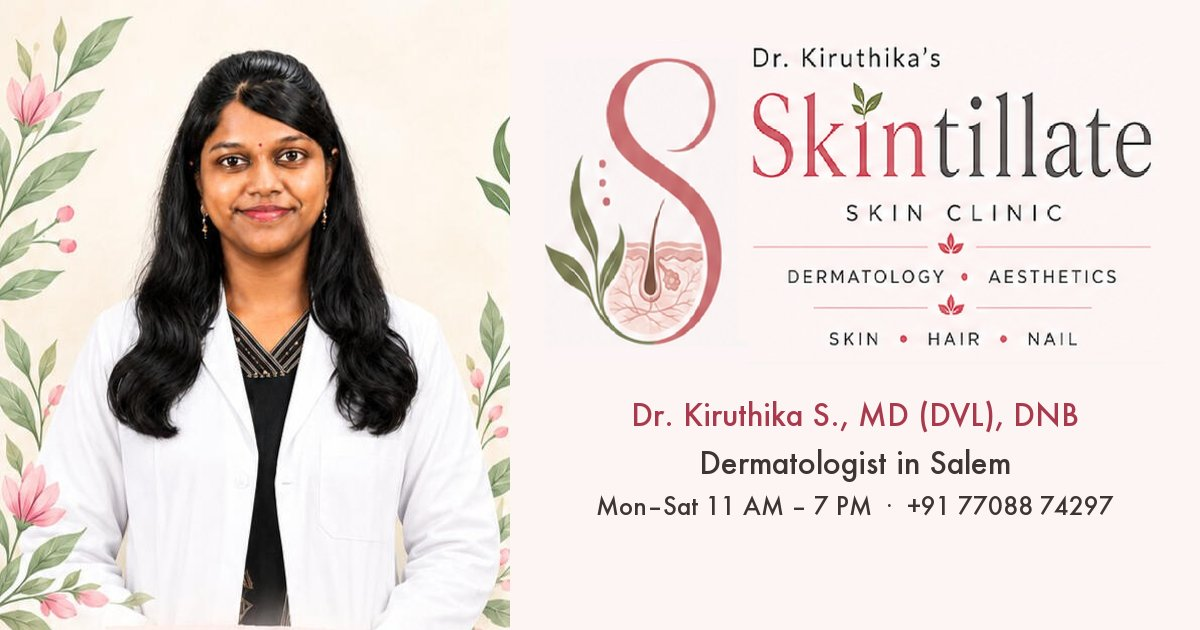
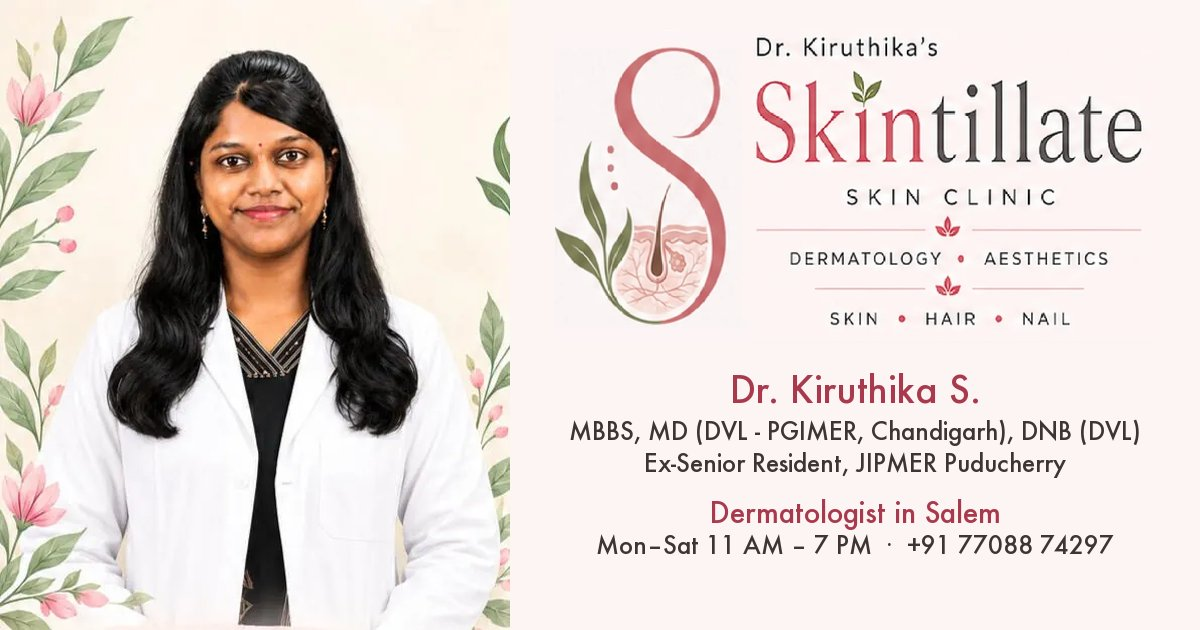
Incorporate doctor feedbacks * Update credentials across * Remove Nd Yag laser * Reworded "Lasers at our clinic"

diff --git a/dr-kiruthika.html b/dr-kiruthika.html
@@ -2,7 +2,7 @@
 ref: doctor
 permalink: /dr-kiruthika/
 title: Dr. Kiruthika S. – Dermatologist in Salem | Skintillate
-description: Dr. Kiruthika S., MBBS, MD (DVL) PGIMER Chandigarh, DNB, is a consultant dermatologist in Salem with 10+ years of experience in skin, hair, nail and aesthetic care.
+description: Dr. Kiruthika S., MBBS, MD (DVL - PGIMER, Chandigarh), DNB (DVL), Ex-Senior Resident, JIPMER Puducherry. Dermatologist in Salem for skin, hair and nails.
 heading: Dr. Kiruthika S., Consultant Dermatologist in Salem
 nav_title: Dr. Kiruthika
 schema_type: ProfilePage
@@ -33,7 +33,7 @@ about_doctor: true
         <li><strong>MBBS</strong><span>Madras Medical College, Chennai</span></li>
         <li><strong>MD – Dermatology, Venereology &amp; Leprology</strong><span>Postgraduate Institute of Medical Education and Research (PGIMER), Chandigarh</span></li>
         <li><strong>DNB – Dermatology, Venereology &amp; Leprology</strong><span>National Board of Examinations, New Delhi</span></li>
-        <li><strong>Senior Resident</strong><span>JIPMER, Puducherry and PGIMER, Chandigarh</span></li>
+        <li><strong>Ex-Senior Resident</strong><span>JIPMER, Puducherry and PGIMER, Chandigarh</span></li>
         <li><strong>Registration</strong><span>Tamil Nadu Medical Council, Reg. No. {{ clinic.doctor.registration_number }}</span></li>
       </ul>
     </div>

diff --git a/_includes/schema.html b/_includes/schema.html
@@ -65,12 +65,15 @@
       "name": {{ clinic.doctor.name | jsonify }},
       "honorificPrefix": "Dr.",
       "jobTitle": "Consultant Dermatologist",
+      "honorificSuffix": {{ clinic.doctor.qualifications | jsonify }},
+      "description": {{ clinic.doctor.name | append: ", " | append: clinic.doctor.qualifications | jsonify }},
       "url": {{ doctor_url | jsonify }},
       "image": {{ "/assets/img/dr-kiruthika-dermatologist-salem-506.webp" | absolute_url | jsonify }},
       "worksFor": { "@id": {{ clinic_id | jsonify }} },
       "alumniOf": [
         { "@type": "CollegeOrUniversity", "name": "Madras Medical College, Chennai" },
-        { "@type": "CollegeOrUniversity", "name": "Postgraduate Institute of Medical Education and Research (PGIMER), Chandigarh" }
+        { "@type": "CollegeOrUniversity", "name": "Postgraduate Institute of Medical Education and Research (PGIMER), Chandigarh" },
+        { "@type": "CollegeOrUniversity", "name": "Jawaharlal Institute of Postgraduate Medical Education and Research (JIPMER), Puducherry" }
       ],
       "hasCredential": [
         { "@type": "EducationalOccupationalCredential", "credentialCategory": "degree", "name": "MBBS" },

diff --git a/index.html b/index.html
@@ -15,7 +15,7 @@ nav_title: Home
       <ul class="hero-facts">
         <li>{% include icon.html name="clock" %}<span>Mon–Sat, 11 AM – 7 PM</span></li>
         <li>{% include icon.html name="pin" %}<span>North Alagapuram, Salem</span></li>
-        <li>{% include icon.html name="check" %}<span>MD (PGIMER), DNB dermatologist</span></li>
+        <li>{% include icon.html name="check" %}<span>{{ clinic.doctor.qualifications }}</span></li>
       </ul>
     </div>
     <div class="hero-media">
@@ -66,6 +66,7 @@ nav_title: Home
     <div>
       <p class="eyebrow">{% include icon.html name="leaf" %}<span>Meet the doctor</span></p>
       <h2 id="doctor-title">{{ clinic.doctor.name }}, Consultant Dermatologist</h2>
+      <p class="doctor-creds">{{ clinic.doctor.qualifications }} · {{ clinic.doctor.registration }}</p>
       <p>Dr. Kiruthika is a dermatologist with over 10 years of experience, bringing together academic training, clinical expertise, research and a passion for aesthetic medicine.</p>
       <ul class="check-list">
         <li>{% include icon.html name="check" %}<span>MBBS, Madras Medical College, Chennai</span></li>

diff --git a/assets/css/main.css b/assets/css/main.css
@@ -223,6 +223,7 @@ h3 { font-size: 1.45rem; }
 .check-list li { display: flex; gap: .7em; align-items: flex-start; padding: .35em 0; }
 .check-list .icon { color: var(--sage); margin-top: .3em; }
 
+.doctor-creds { font-weight: 500; color: var(--rose); }
 .credentials { display: grid; gap: 12px; list-style: none; padding: 0; margin: 1.5rem 0; }
 .credentials li { background: var(--surface); border: 1px solid var(--line); border-radius: var(--radius-sm); padding: 14px 18px; }
 .credentials strong { display: block; color: var(--ink); }

diff --git a/services/pigmentation-treatment.md b/services/pigmentation-treatment.md
@@ -1,20 +1,18 @@
 ---
 ref: pigmentation
 title: Pigmentation & Melasma Treatment in Salem | Skintillate
-description: Dermatologist treatment for melasma, dark spots, tanning, dark circles and uneven skin tone in Salem with prescription creams, chemical peels and Q-switched laser.
+description: Dermatologist treatment for melasma, dark spots, tanning, dark circles and uneven skin tone in Salem with prescription creams, chemical peels and sun protection.
 heading: Pigmentation & Melasma Treatment in Salem
 nav_title: Pigmentation & Melasma
 intro: Dark patches and uneven skin tone are among the most common reasons people visit a dermatologist. The right treatment depends on what is causing the pigmentation, so an accurate diagnosis comes first.
 conditions: [Melasma, Hyperpigmentation, Post-inflammatory hyperpigmentation, Solar lentigines, Periorbital hyperpigmentation, Acanthosis nigricans]
-related: chemical-peels,laser,acne
+related: chemical-peels,acne,clinical-dermatology
 last_reviewed:  # set to the date (YYYY-MM-DD) once Dr. Kiruthika approves this page
 faq:
   - q: Can melasma be cured permanently?
     a: Melasma can be lightened significantly, but it is a long-term condition that can return with sun exposure, heat or hormonal changes. Daily sun protection and a maintenance routine help keep it under control after treatment.
-  - q: Is laser safe for Indian skin?
-    a: Yes, when the right laser and settings are chosen by an experienced dermatologist. Indian skin is more prone to darkening after aggressive treatment, so we use gentle settings, test where needed and combine laser with sun protection and creams.
   - q: How many sessions will I need?
-    a: It depends on the type and depth of pigmentation. Peels and laser sessions are usually spaced 2 to 4 weeks apart, and most people need a course of several sessions. Dr. Kiruthika will give you an estimate after examining your skin.
+    a: It depends on the type and depth of pigmentation. Peel sessions are usually spaced 2 to 4 weeks apart, and most people need a course of several sessions. Dr. Kiruthika will give you an estimate after examining your skin.
   - q: Can I use fairness creams?
     a: Avoid unprescribed fairness or "skin-whitening" creams. Many contain strong steroids or mercury that can damage the skin and worsen pigmentation over time. Use only the creams your dermatologist prescribes.
   - q: Which sunscreen should I use?
@@ -29,7 +27,6 @@ faq:
 - **Dark circles** under the eyes.
 - **Dark, velvety skin on the neck, underarms or knuckles** (acanthosis nigricans), which can be linked to insulin resistance, weight or PCOS.
 - **Pigmentation around the mouth and lips.**
-- **Pigmented birthmarks** such as nevus of Ota.
 - **Pigmentation from cosmetics, hair dye or medicines.**
 
 White patches are a different problem; see [clinical dermatology](/services/clinical-dermatology/) for vitiligo and other causes.
@@ -50,9 +47,6 @@ For selected people with melasma, tablets such as tranexamic acid may be added a
 ### Chemical peels
 Glycolic, lactic, mandelic, salicylic and combination peels lift away pigmented surface cells. [Read more about chemical peels](/services/chemical-peels/).
 
-### Q-switched Nd:YAG laser
-Laser toning breaks up excess pigment into tiny particles that the body clears away. It is used for melasma, freckles, sun spots and birthmarks such as nevus of Ota. [Read more about our lasers](/services/laser-treatment/).
-
 ### HydraFacial and medi-facials
 Gentle cleansing and hydrating treatments that brighten the skin and support the main treatment plan.
 
@@ -62,4 +56,4 @@ Melasma is a long-term condition. Treatment can lighten it considerably, but sun
 
 ## Why choose Skintillate
 
-Pigmentation treatment in Indian skin needs care, because over-treatment can make it darker. Your plan is made by [Dr. Kiruthika](/dr-kiruthika/), a dermatologist trained at PGIMER, Chandigarh, who adjusts every cream, peel and laser setting to your skin.
+Pigmentation treatment in Indian skin needs care, because over-treatment can make it darker. Your plan is made by [Dr. Kiruthika](/dr-kiruthika/), a dermatologist trained at PGIMER, Chandigarh, who adjusts every cream and peel to your skin.

diff --git a/services/laser-treatment.md b/services/laser-treatment.md
@@ -1,12 +1,12 @@
 ---
 ref: laser
 title: Laser Skin Treatment in Salem | Skintillate Skin Clinic
-description: Dermatologist-performed laser treatments in Salem with Q-switched Nd:YAG for pigmentation and tattoos, fractional CO₂ for scars, and diode laser hair removal.
+description: Dermatologist-performed laser treatments in Salem, with fractional CO₂ laser for acne scars and skin texture and diode laser for hair removal.
 heading: Laser Skin Treatments in Salem
 nav_title: Laser Treatments
-intro: Lasers treat pigmentation, scars, unwanted hair and tattoos with precision. Results depend as much on choosing the right laser and settings for your skin as on the machine itself, which is why every laser treatment here is planned by a dermatologist.
-conditions: [Hyperpigmentation, Melasma, Acne scars, Hirsutism, Tattoo, Nevus of Ota]
-related: laser-hair-removal,pigmentation,acne
+intro: Lasers treat scars, uneven skin texture and unwanted hair with precision. Results depend as much on choosing the right laser and settings for your skin as on the machine itself, which is why every laser treatment here is planned by a dermatologist.
+conditions: [Acne scars, Atrophic scars, Hirsutism, Hypertrichosis]
+related: laser-hair-removal,acne,anti-ageing
 last_reviewed:  # set to the date (YYYY-MM-DD) once Dr. Kiruthika approves this page
 faq:
   - q: Is laser treatment painful?
@@ -14,23 +14,17 @@ faq:
   - q: Is laser safe for dark or Indian skin?
     a: Yes, with the right choice of laser and carefully adjusted settings. Darker skin is more prone to temporary darkening or lightening after laser, so we start gently, test where needed and insist on sun protection before and after treatment.
   - q: How many sessions will I need?
-    a: Most laser treatments need a course of sessions. As a guide, pigmentation needs several sessions 2 to 4 weeks apart, scars 3 to 5 sessions 4 to 6 weeks apart, and hair removal 6 to 8 sessions. Your plan is tailored after your consultation.
-  - q: Can a tattoo be removed completely?
-    a: Black and dark blue ink usually respond well over several sessions. Some colours, such as green, yellow and light blue, are harder to remove and may only fade. Dr. Kiruthika will examine your tattoo and explain what is realistic.
+    a: Most laser treatments need a course of sessions. As a guide, scars usually need 3 to 5 sessions 4 to 6 weeks apart, and hair removal 6 to 8 sessions. Your plan is tailored after your consultation.
   - q: Is there any downtime?
-    a: Q-switched laser and laser hair removal usually involve only mild redness for a few hours. Fractional CO₂ laser causes redness, swelling and fine crusting for about 3 to 7 days.
+    a: Laser hair removal usually involves only mild redness for a few hours. Fractional CO₂ laser causes redness, swelling and fine crusting for about 3 to 7 days.
 ---
 
-## Lasers at our clinic
+## Laser treatments
 
 | Laser | What it treats | Typical course |
 |---|---|---|
-| Q-switched Nd:YAG | Melasma and pigmentation (laser toning), freckles, sun spots, nevus of Ota, tattoo removal, carbon laser peel | Several sessions, 2 to 4 weeks apart |
 | Fractional CO₂ | Acne scars, chickenpox and surgical scars, open pores, fine lines, uneven texture, stretch marks | 3 to 5 sessions, 4 to 6 weeks apart |
 | Diode | [Laser hair removal](/services/laser-hair-removal/) for the face and body | 6 to 8 sessions, 4 to 6 weeks apart |
-
-### Q-switched Nd:YAG laser
-This laser releases energy in extremely short pulses that break excess pigment or tattoo ink into tiny particles, which the body then clears. Its longer wavelength is well suited to Indian skin. It is also used for the **carbon laser peel**, a quick treatment for oily skin, open pores and dullness. See also [pigmentation treatment](/services/pigmentation-treatment/).
 
 ### Fractional CO₂ laser
 The laser creates microscopic columns of treatment in the skin, leaving the surrounding skin intact to speed healing. This stimulates new collagen, gradually smoothing scars and improving texture. See also [acne scar treatment](/services/acne-scar-treatment/).

diff --git a/CONTENT-REVIEW.md b/CONTENT-REVIEW.md
@@ -17,12 +17,12 @@ Once a page is approved, set `last_reviewed:` in its front matter to the approva
 |---|---|
 | Clinical Dermatology | The page mentions **confidential care for sexually transmitted infections** (part of DVL practice). Keep it or remove it? Also confirm patch testing and skin biopsy are done or arranged by the clinic. |
 | Acne & Acne Scars | Confirm the focal TCA (CROSS) technique, subcision, microneedling and comedone extraction are offered. |
-| Pigmentation & Melasma | Confirm oral tranexamic acid, HydraFacial and medi-facials. Confirm the Q-switched laser is used for nevus of Ota. |
+| Pigmentation & Melasma | Confirm oral tranexamic acid, HydraFacial and medi-facials. |
 | Hair Loss (PRP & GFC) | Check the PRP and GFC session schedule (3–4 sessions a month apart). Hair transplant is described as **consultation only**. Is that correct? |
 | Nail Disorders | Confirm ingrown toenail procedures are done at the clinic. Confirm nail fungal tests are sent out or done in the clinic. |
 | Wart, Skin Tag & Mole Removal | The page says removal can often be done on the same day as the consultation. Is that correct? |
 | Intralesional Injections | 5-fluorouracil for keloids is mentioned. Keep it? |
-| Laser Treatments | Confirm the **carbon laser peel**, tattoo removal and stretch-mark treatment with fractional CO₂. |
+| Laser Treatments | Confirm stretch-mark and fine-line treatment with fractional CO₂. |
 | Laser Hair Removal | Check the session counts (6–8, 4–6 weeks apart) and the pre-session instructions. |
 | Chemical Peels | Confirm the peels listed (salicylic, glycolic, lactic, mandelic, Jessner's, TCA) and that HydraFacial is offered. |
 | Anti-Ageing, Botox & Fillers | Confirm skin boosters, hyperhidrosis treatment, and filler areas (under-eye, cheeks, lips, chin, jawline). |

diff --git a/services/anti-ageing-botox-fillers.md b/services/anti-ageing-botox-fillers.md
@@ -51,7 +51,6 @@ Not every concern needs injections. Treatments that improve skin quality, tone a
 - **Skin boosters**: injectable hyaluronic acid that hydrates the skin from within for a natural glow.
 - **Microneedling**, with or without PRP, to stimulate collagen and refine texture.
 - **[Fractional CO₂ laser](/services/laser-treatment/)** for fine lines, pores and uneven texture.
-- **[Q-switched laser toning](/services/laser-treatment/)** for dullness and uneven tone.
 - **[Chemical peels](/services/chemical-peels/)** and **HydraFacial** for brightness and smoothness.
 - **Prescription creams** such as retinoids, together with daily sunscreen, the foundation of any anti-ageing plan.
 

diff --git a/services/acne-scar-treatment.md b/services/acne-scar-treatment.md
@@ -46,7 +46,7 @@ Not every mark that acne leaves behind is a scar. Flat brown or red marks usuall
 
 | Type | What it looks like | Treatments that may help |
 |---|---|---|
-| Dark or red marks | Flat brown, red or purple spots | Creams, chemical peels, [Q-switched laser](/services/laser-treatment/) |
+| Dark or red marks | Flat brown, red or purple spots | Creams, chemical peels |
 | Rolling scars | Wide, wave-like dips | Subcision, microneedling, fractional CO₂ laser |
 | Boxcar scars | Broad dips with sharp edges | Fractional CO₂ laser, microneedling, peels |
 | Ice-pick scars | Narrow, deep pits | Focal TCA (CROSS) technique |
